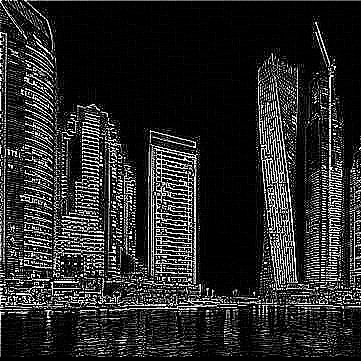
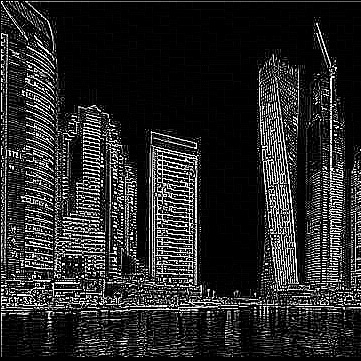
Fixed padding

diff --git a/Week 6 - Convolutions & Wavelet Transforms/Convolutions.py b/Week 6 - Convolutions & Wavelet Transforms/Convolutions.py
@@ -27,9 +27,10 @@ def convolve2D(image, kernel, padding=0, strides=1):
     output = np.zeros((xOutput, yOutput))
 
     # Apply Equal Padding to All Sides
-    if padding != 0 and padding % 2 == 0:
-        imagePadded = np.zeros((image.shape[0] + padding, image.shape[1] + padding))
-        imagePadded[int(padding / 2):int(-1 * padding / 2), int(padding / 2):int(-1 * padding / 2)] = image
+    if padding != 0:
+        imagePadded = np.zeros((image.shape[0] + padding*2, image.shape[1] + padding*2))
+        imagePadded[int(padding):int(-1 * padding), int(padding):int(-1 * padding)] = image
+        print(imagePadded)
     else:
         imagePadded = image
 
@@ -55,8 +56,6 @@ def convolve2D(image, kernel, padding=0, strides=1):
 
 
 if __name__ == '__main__':
-    np.set_printoptions(threshold=sys.maxsize)
-
     # Grayscale Image
     image = processImage('Image.jpeg')
 
